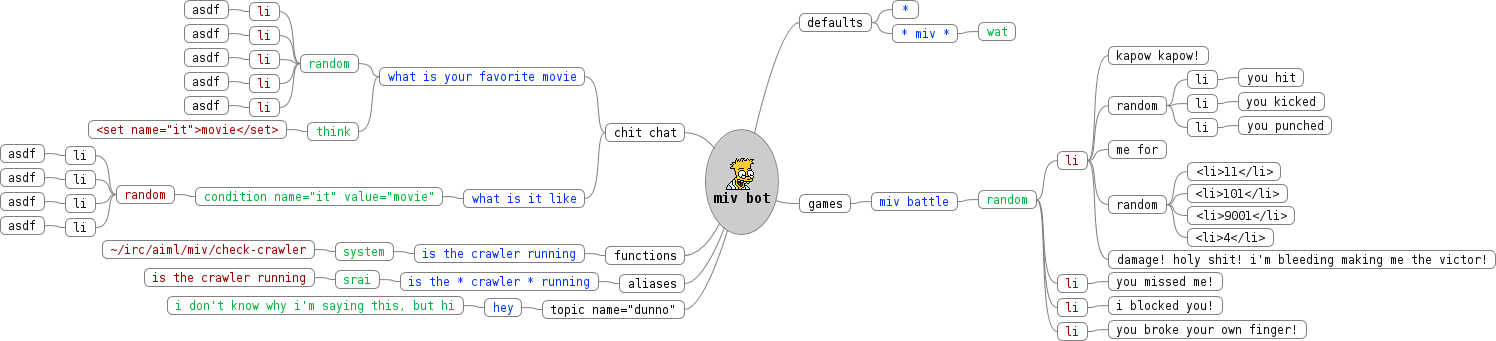
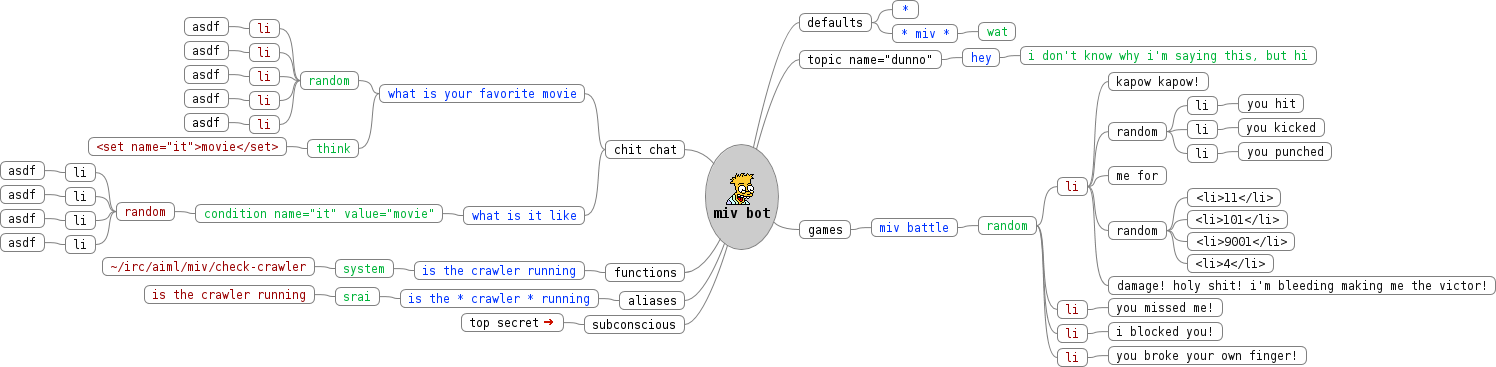
added following hyperlinks

diff --git a/main.c b/main.c
@@ -6,12 +6,14 @@ void str_replace(char *, const char *, const char *);
 
 int main(int argc, char *argv[]){
    char *source = NULL;
+   int rec = 1;
 
    if (argc == 1) {
       printf("\nusage: %s mindmap.mm\n\n", *argv);
       return 0;
    }
 
+   char *arg1 = *argv;
    FILE *fp = fopen(*++argv, "r");
    if (fp != NULL) {
       fseek(fp, 0L, SEEK_END);
@@ -22,14 +24,18 @@ int main(int argc, char *argv[]){
       fread(source, sizeof(char), bufsize, fp);
    }
    fclose(fp);
-
    //printf("%s", source);
-   printf("<?xml version=\"1.0\" encoding=\"ISO-8859-1\"?>\n\n");
-   printf("<aiml version=\"1.0\">\n\n");
-   printf("<meta name=\"author\" content=\"Alex Bylund\"/>\n");
-   printf("<meta name=\"language\" content=\"en\"/>\n");
 
-   char *lineRead, *line, *lineText, lineBuffer[10000], *tagtemp, *patternCaps;
+   if ( argc == 2 ) {
+      printf("<?xml version=\"1.0\" encoding=\"ISO-8859-1\"?>\n\n");
+      printf("<aiml>\n\n");
+      printf("<meta name=\"author\" content=\"Alex Bylund\"/>\n");
+      printf("<meta name=\"language\" content=\"en\"/>\n");
+      rec = 0;
+   }
+
+   char *line, lineBuffer[10000], *tagtemp, *patternCaps;
+   char *lineRead, *lineText, *lineLink;
    char tagstack[100][100];
    int depth = 0, count = 0;
    int nodeLine, endNode, singleNodeLine;
@@ -45,6 +51,7 @@ int main(int argc, char *argv[]){
 
       if (nodeLine) {
          lineText = strstr(strdup(lineRead), "TEXT=\"");
+         lineLink = strstr(strdup(lineRead), "LINK=\"");
 
          if (lineText != NULL) {
             count = 0;
@@ -78,6 +85,24 @@ int main(int argc, char *argv[]){
             depth++; // move from main or organizing/topic node
             continue;
          }
+
+         /* how a hack became a h4x0r1!111
+            recursively system calls itself... since strtok has its own internal state
+            note to future future proofing ^ */
+         if (lineLink != NULL) {
+            count = 0;
+            lineLink = strstr(lineLink, "\""); lineLink++;
+            while (*lineLink != '"') {lineBuffer[count] = *lineLink; lineLink++; count++;}
+            lineBuffer[count] = '\0';
+
+            char call[1000];
+            strcat(call, arg1); strcat(call, " "); strcat(call, lineBuffer); strcat(call, " "); strcat(call, "recursion");
+            fflush(stdout); system( call ); count = 0;
+
+            while (*call != '\0') call[count]='\0',count++;
+            nodeLine = endNode = singleNodeLine = 0;
+         }
+
       }
 
       // top of the mind so print it normally
@@ -120,7 +145,9 @@ int main(int argc, char *argv[]){
 
    }
 
-   printf("\n</aiml>\n");
+   if ( !rec ){
+      printf("\n</aiml>\n");
+   }
 
    free(source);
 

diff --git a/miv-example.mm b/miv-example.mm
@@ -14,12 +14,16 @@
       <b><font size="4">miv bot</font></b>
     </p>
   </body>
-</html>
-</richcontent>
+</html></richcontent>
 <node CREATED="1524946173958" ID="ID_1550752403" MODIFIED="1524946177210" POSITION="right" TEXT="defaults">
 <node COLOR="#0033ff" CREATED="1510486109201" ID="ID_152166414" MODIFIED="1510973395156" TEXT="*"/>
 <node COLOR="#0033ff" CREATED="1510485624271" ID="ID_251550034" MODIFIED="1510974370482" TEXT="* miv *">
 <node COLOR="#00b439" CREATED="1510485633544" ID="ID_452021718" MODIFIED="1510973395177" TEXT="wat"/>
+</node>
+</node>
+<node CREATED="1529203111039" ID="ID_855816964" MODIFIED="1529203250298" POSITION="right" TEXT="topic name=&quot;dunno&quot;">
+<node COLOR="#0033ff" CREATED="1529203129290" ID="ID_720251846" MODIFIED="1529203751886" TEXT="hey">
+<node COLOR="#00b439" CREATED="1529203138322" ID="ID_596217964" MODIFIED="1529203750099" TEXT="i don&apos;t know why i&apos;m saying this, but hi"/>
 </node>
 </node>
 <node CREATED="1524946188826" ID="ID_22634558" MODIFIED="1524946190614" POSITION="right" TEXT="games">
@@ -116,10 +120,8 @@
 </node>
 </node>
 </node>
-<node CREATED="1529203111039" ID="ID_855816964" MODIFIED="1529203250298" POSITION="left" TEXT="topic name=&quot;dunno&quot;">
-<node COLOR="#0033ff" CREATED="1529203129290" ID="ID_720251846" MODIFIED="1529203751886" TEXT="hey">
-<node COLOR="#00b439" CREATED="1529203138322" ID="ID_596217964" MODIFIED="1529203750099" TEXT="i don&apos;t know why i&apos;m saying this, but hi"/>
-</node>
+<node CREATED="1531502627907" ID="ID_177641947" MODIFIED="1531502643343" POSITION="left" TEXT="subconscious">
+<node CREATED="1531502645267" ID="ID_1194559236" LINK="miv-brain.mm" MODIFIED="1531503144819" TEXT="top secret"/>
 </node>
 </node>
 </map>

diff --git a/miv-brain.mm b/miv-brain.mm
@@ -1,0 +1,10 @@
+<map version="1.0.1">
+<!-- To view this file, download free mind mapping software FreeMind from http://freemind.sourceforge.net -->
+<node CREATED="1531503057203" ID="ID_134101283" MODIFIED="1531503057203" TEXT="almighty miv brain">
+<node CREATED="1531503057203" ID="ID_1847928499" MODIFIED="1531503060967" POSITION="right" TEXT="nothing to see here">
+<node CREATED="1531503057203" MODIFIED="1531503057203" TEXT="oogly boogly">
+<node CREATED="1531503057203" MODIFIED="1531503057203" TEXT="hey this is supposed to be top secret!"/>
+</node>
+</node>
+</node>
+</map>

diff --git a/README.md b/README.md
@@ -9,6 +9,7 @@ Converts FreeMind mind maps into AIML (Artificial Intelligence Markup Language)
 ## Notes
 - Different characters might need to be replaced, just ones that were ran into so far have been added.
 - Depending on your AIML implementation the formatting of the map might need to be different.
-- All nodes need to be in plain text format. (Ctrl+A then Alt-P if you're not sure)
+- All nodes need to be in plain text format. (Ctrl+A then Alt-P finally F1, if you're not 100% sure)
 - Should work for any versions of AIML, the keywords used and/or map format would just change.
+- Will follow links to other mind maps - the paths must be set to absolute, or be relative to the binary. (Copy the file icon and paste as a hyperlink text field, or have your script cd into the same dir the root map is in, etc)
 - This is some 0.0.x version.
